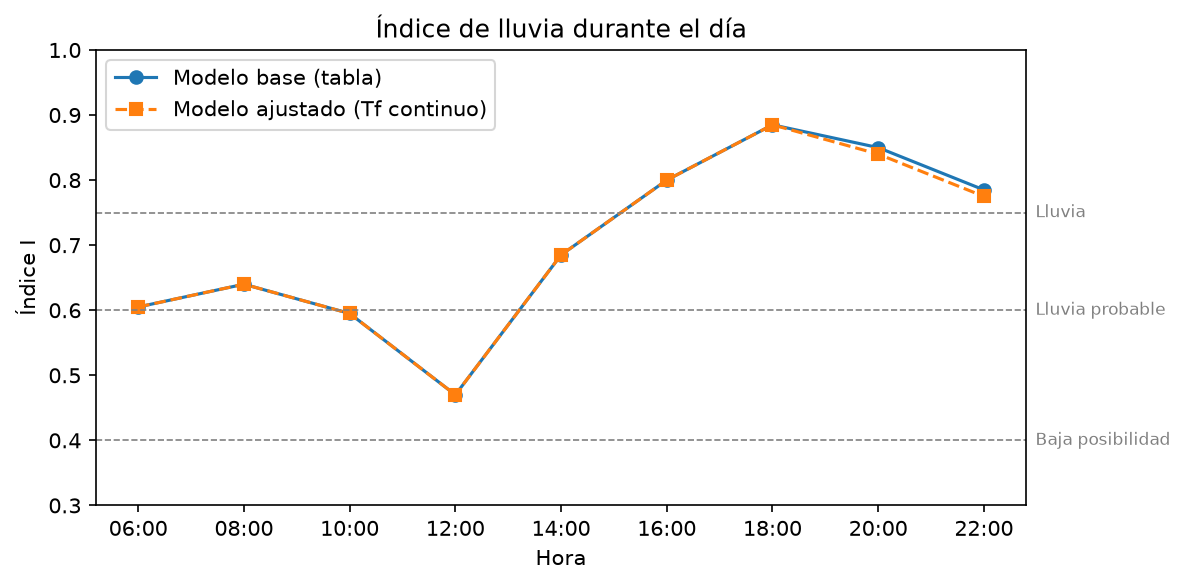
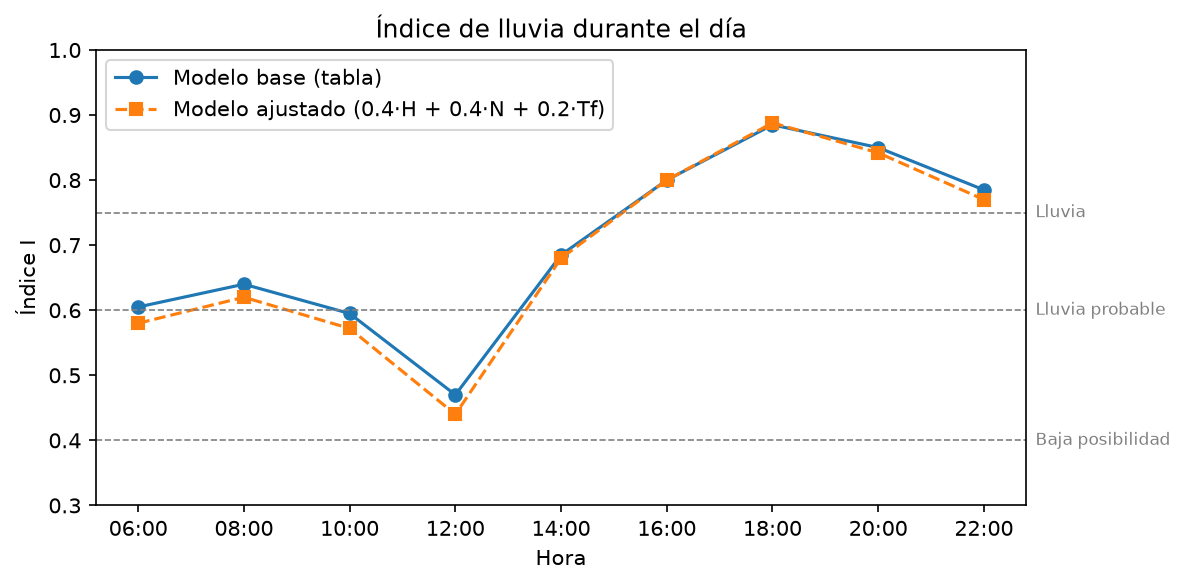
feat(unidad-1): adjust APE 1 weights to 0.4/0.4/0.2 keeping their sum at 1

diff --git a/unidad-1/ape-1-indice-lluvia/codigo/simulacion_ape/__main__.py b/unidad-1/ape-1-indice-lluvia/codigo/simulacion_ape/__main__.py
@@ -1,16 +1,16 @@
 """Punto de entrada: ejecuta ambos modelos, imprime las tablas y guarda las figuras."""
 
 from .analysis import compare, rainy_hours
-from .config import FIGURES_DIR
+from .config import ADJUSTED_WEIGHTS, FIGURES_DIR
 from .model import tf_continuous, tf_table
 from .reporting import plot_comparison, plot_contributions, plot_inputs, table
 from .simulation import run
 
 
 def main():
-    base, adjusted = run(tf_table), run(tf_continuous)
+    base, adjusted = run(tf_table), run(tf_continuous, ADJUSTED_WEIGHTS)
     print(table(base, "Modelo base (Tf por tabla)"), end="\n\n")
-    print(table(adjusted, "Modelo ajustado (Tf continuo)"), end="\n\n")
+    print(table(adjusted, "Modelo ajustado (pesos 0.4, 0.4, 0.2 y Tf continuo)"), end="\n\n")
 
     summary = compare(base, adjusted)
     print("Horas con lluvia probable o lluvia:", ", ".join(rainy_hours(adjusted)))

diff --git a/unidad-1/ape-1-indice-lluvia/codigo/tests/test_simulation.py b/unidad-1/ape-1-indice-lluvia/codigo/tests/test_simulation.py
@@ -1,5 +1,6 @@
 import numpy as np
 
+from simulacion_ape.config import ADJUSTED_WEIGHTS, WEIGHTS
 from simulacion_ape.model import classify, rain_index, tf_continuous, tf_table
 from simulacion_ape.simulation import run
 
@@ -26,3 +27,13 @@ def test_classify_uses_guide_thresholds_inclusive_at_lower_bound():
 def test_run_returns_one_row_per_reading():
     result = run(tf_table)
     assert len(result["index"]) == len(result["state"]) == 9
+
+
+def test_both_weight_sets_sum_to_one():
+    assert sum(WEIGHTS) == 1 and round(sum(ADJUSTED_WEIGHTS), 10) == 1
+
+
+def test_adjusted_model_uses_new_weights_and_continuous_tf():
+    result = run(tf_continuous, ADJUSTED_WEIGHTS)
+    assert result["index"].tolist()[:2] == [0.58, 0.62]
+    assert result["state"][0] == "Baja posibilidad"

diff --git a/unidad-1/ape-1-indice-lluvia/codigo/simulacion_ape/simulation.py b/unidad-1/ape-1-indice-lluvia/codigo/simulacion_ape/simulation.py
@@ -1,11 +1,11 @@
-"""Aplica el modelo a las lecturas del día con la regla de factor de temperatura indicada."""
+"""Aplica el modelo a las lecturas del día con la regla de Tf y los pesos indicados."""
 
-from .config import CLOUDINESS, HUMIDITY, TEMPERATURE
+from .config import CLOUDINESS, HUMIDITY, TEMPERATURE, WEIGHTS
 from .model import classify, rain_index
 
 
-def run(tf_rule):
+def run(tf_rule, weights=WEIGHTS):
     h, n = HUMIDITY / 100, CLOUDINESS / 100
     tf = tf_rule(TEMPERATURE)
-    index = rain_index(h, n, tf)
+    index = rain_index(h, n, tf, weights)
     return {"H": h, "N": n, "Tf": tf, "index": index, "state": classify(index)}

diff --git a/unidad-1/ape-1-indice-lluvia/codigo/simulacion_ape/reporting.py b/unidad-1/ape-1-indice-lluvia/codigo/simulacion_ape/reporting.py
@@ -55,7 +55,7 @@ def plot_contributions(result, path):
 def plot_comparison(base, adjusted, path):
     fig, ax = plt.subplots(figsize=(8, 4))
     ax.plot(HOURS, base["index"], marker="o", label="Modelo base (tabla)")
-    ax.plot(HOURS, adjusted["index"], marker="s", linestyle="--", label="Modelo ajustado (Tf continuo)")
+    ax.plot(HOURS, adjusted["index"], marker="s", linestyle="--", label="Modelo ajustado (0.4·H + 0.4·N + 0.2·Tf)")
     _threshold_lines(ax)
     ax.set(xlabel="Hora", ylabel="Índice I", title="Índice de lluvia durante el día", ylim=(0.3, 1))
     ax.legend(loc="upper left")

diff --git a/unidad-1/ape-1-indice-lluvia/codigo/simulacion_ape/model.py b/unidad-1/ape-1-indice-lluvia/codigo/simulacion_ape/model.py
@@ -15,9 +15,9 @@ def tf_table(temp):
     return tf_continuous(10 + 2 * np.floor((np.asarray(temp) - 10) / 2))
 
 
-def rain_index(h, n, tf):
-    """I = 0.5H + 0.3N + 0.2Tf, redondeado para que valores como 0.60 no se lean como 0.5999."""
-    w_h, w_n, w_tf = WEIGHTS
+def rain_index(h, n, tf, weights=WEIGHTS):
+    """I = w_h·H + w_n·N + w_tf·Tf (por defecto 0.5, 0.3, 0.2), redondeado para que valores como 0.60 no se lean como 0.5999."""
+    w_h, w_n, w_tf = weights
     return np.round(w_h * h + w_n * n + w_tf * tf, 4)
 
 

diff --git a/unidad-1/ape-1-indice-lluvia/codigo/simulacion_ape/config.py b/unidad-1/ape-1-indice-lluvia/codigo/simulacion_ape/config.py
@@ -5,7 +5,9 @@ from pathlib import Path
 import numpy as np
 
 # Pesos de la humedad (H), la nubosidad (N) y el factor de temperatura (Tf).
-WEIGHTS = (0.5, 0.3, 0.2)
+# Ambos conjuntos suman 1, así el índice queda entre 0 y 1.
+WEIGHTS = (0.5, 0.3, 0.2)  # modelo base (guía)
+ADJUSTED_WEIGHTS = (0.4, 0.4, 0.2)  # modelo ajustado: humedad y nubosidad pesan igual
 
 # Límite inferior de cada estado, evaluado de mayor a menor.
 STATES = ((0.75, "Lluvia"), (0.60, "Lluvia probable"), (0.40, "Baja posibilidad"))
